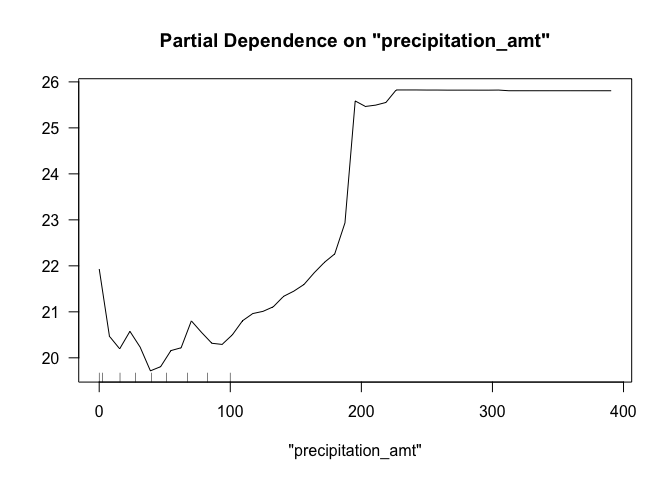
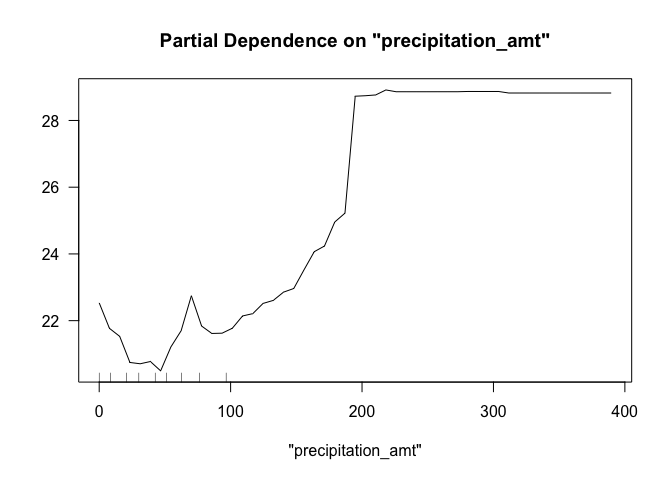
formatting

diff --git a/ECO395_Exercises_03.md b/ECO395_Exercises_03.md
@@ -94,43 +94,47 @@ dengue_boost = gbm(total_cases ~ season + city + specific_humidity + precipitati
 
 | Model            |     RMSE |
 |:-----------------|---------:|
-| Tree             | 29.92231 |
-| Pruned Tree      | 29.11968 |
-| Random Forest    | 27.58377 |
-| Gradient Boosted | 30.02897 |
+| Tree             | 33.49981 |
+| Pruned Tree      | 34.38200 |
+| Random Forest    | 31.98165 |
+| Gradient Boosted | 33.19501 |
 
-![](ECO395_Exercises_03_files/figure-markdown_github/unnamed-chunk-5-1.png)![](ECO395_Exercises_03_files/figure-markdown_github/unnamed-chunk-5-2.png)![](ECO395_Exercises_03_files/figure-markdown_github/unnamed-chunk-5-3.png)
+The best performing model was the random forest model. Below are partial
+dependence plots for `specific_humidity`,
+`precipitation_amt`,`dew_point_temp_k`
+
+![](ECO395_Exercises_03_files/figure-markdown_github/unnamed-chunk-6-1.png)![](ECO395_Exercises_03_files/figure-markdown_github/unnamed-chunk-6-2.png)![](ECO395_Exercises_03_files/figure-markdown_github/unnamed-chunk-6-3.png)
 
 ## Predictive model building: green certification
 
     ## Distribution not specified, assuming gaussian ...
 
-    ## [1] 1057.28
+    ## [1] 996.5327
 
-    ## [1] 1048.911
+    ## [1] 992.3039
 
-    ## [1] 999.7898
+    ## [1] 982.7513
 
-    ## [1] 1051.636
+    ## [1] 1027.844
 
-    ## [1] 776.0968
+    ## [1] 758.9844
 
-    ## [1] 927.5355
+    ## [1] 911.7435
 
 ## Predictive model building: California housing
 
     ## Distribution not specified, assuming gaussian ...
 
-    ## [1] 74165.07
+    ## [1] 77150.19
 
-    ## [1] 73326.18
+    ## [1] 75585.42
 
-    ## [1] 77620.78
+    ## [1] 78697.33
 
-    ## [1] 77922.82
+    ## [1] 79138.22
 
-    ## [1] 65586.16
+    ## [1] 66476.17
 
-    ## [1] 66365.47
+    ## [1] 67747.83
 
-![](ECO395_Exercises_03_files/figure-markdown_github/unnamed-chunk-7-1.png)![](ECO395_Exercises_03_files/figure-markdown_github/unnamed-chunk-7-2.png)![](ECO395_Exercises_03_files/figure-markdown_github/unnamed-chunk-7-3.png)
+![](ECO395_Exercises_03_files/figure-markdown_github/unnamed-chunk-8-1.png)![](ECO395_Exercises_03_files/figure-markdown_github/unnamed-chunk-8-2.png)![](ECO395_Exercises_03_files/figure-markdown_github/unnamed-chunk-8-3.png)
